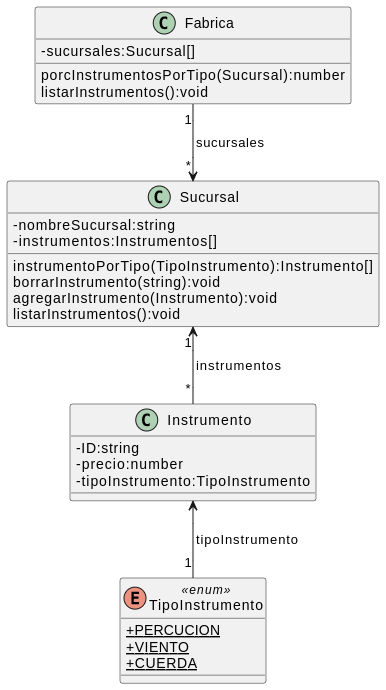
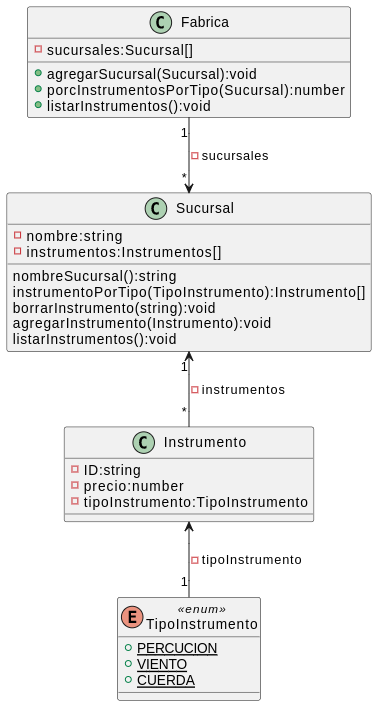
Refactorizando la clase Sucursal agregando Getter del nombre de la Sucursal y del metodo listarInstrumentos

Changed region(s): [[0.0, 0.0, 0.9894, 1.0], [0.9603, 0.4565, 0.9894, 0.5174]]

diff --git a/Fabrica/Sucursal.ts b/Fabrica/Sucursal.ts
@@ -2,16 +2,16 @@ import { Instrumento } from "./Instrumento";
 import { TipoInstrumento } from "./TipoInstrumento";
 
 export class Sucursal {
-    private nombreSucursal:string;
+    private nombre:string;
     private instrumentos:Instrumento[] = [];
 
 
     constructor(nombreSucursal:string){
-        this.nombreSucursal = nombreSucursal;
+        this.nombre = nombreSucursal;
     }
     
-    getNombreSucursal(): string {
-        return this.nombreSucursal;
+    get nombreSucursal(): string {
+        return this.nombre;
     }
 
     public instrumentoPorTipo(tipo:TipoInstrumento):Instrumento[]{
@@ -28,7 +28,7 @@ export class Sucursal {
         this.instrumentos.push(instrumento);
     }
     
-    public listarInstrumentos():Instrumento[] {
+    get listarInstrumentos():Instrumento[] {
         return this.instrumentos
     }
 

diff --git a/Fabrica/Fabrica.ts b/Fabrica/Fabrica.ts
@@ -16,7 +16,7 @@ export class Fabrica {
 
         tipos.forEach(tipo => {
 
-            const numeroInstrumentos = sucursal.listarInstrumentos().length
+            const numeroInstrumentos = sucursal.listarInstrumentos.length
             inventario[tipo] = sucursal.instrumentoPorTipo(tipo).length / numeroInstrumentos * 100;
             
         })
@@ -29,8 +29,8 @@ export class Fabrica {
 
         this.sucursales.forEach(sucursal => {
 
-            console.log("\n" + sucursal.getNombreSucursal())            
-            sucursal.listarInstrumentos().forEach(instrumento => {
+            console.log("\n" + sucursal.nombreSucursal)            
+            sucursal.listarInstrumentos.forEach(instrumento => {
                 console.log(JSON.stringify(instrumento))
             });
 

diff --git a/Fabrica/TipoInstrumento.ts b/Fabrica/TipoInstrumento.ts
@@ -1,13 +1,8 @@
 export type TipoInstrumento = "PERCUSION" | "VIENTO" | "CUERDA" | "Instrumentos eléctricos"
 
-
-export interface IInstrumento {
-    PERCUSION: number;
-    VIENTO:    number;
-    CUERDA:    number;
-}
-
+// Otra manera de crearlo.
 // export type ObjectInstr = Record<TipoInstrumento, number>
 export type ObjectInstr = {
     [prop in TipoInstrumento]: number;
 };
+ 
